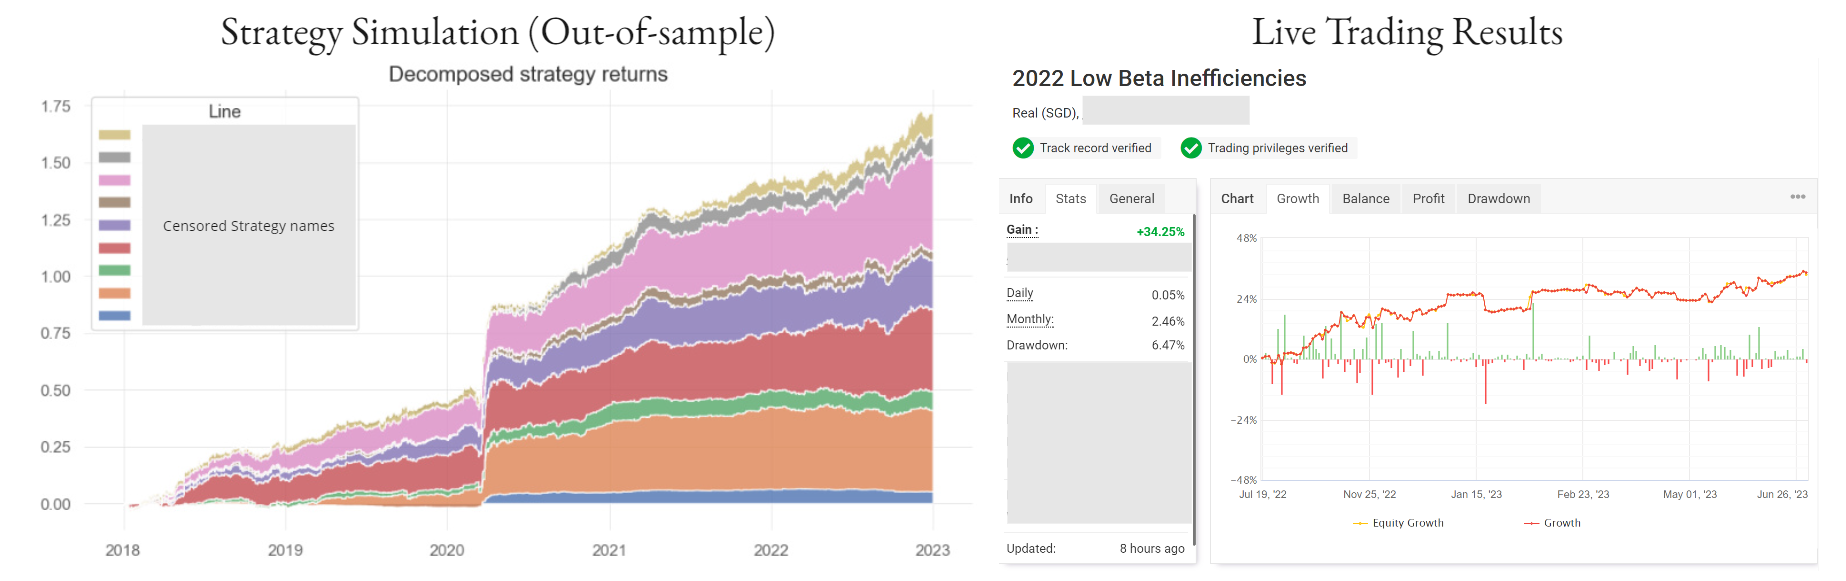
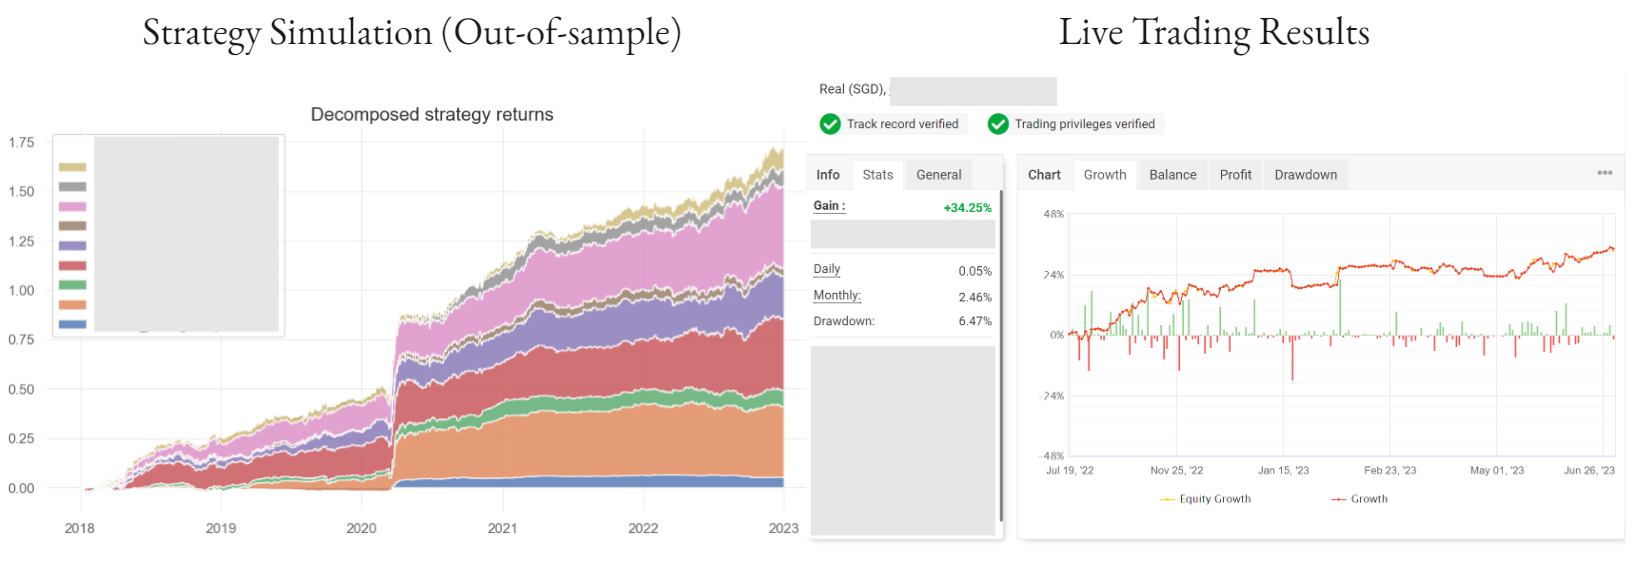
center and minimize stock historian results, center stock historian explanation

diff --git a/index.md b/index.md
@@ -25,9 +25,16 @@ nav_order: 1
 
 <style>
   /* https://illtron.net/2019/03/styling-images-with-markdown/ */
-img[src$="#block"] {
+img[src$="#block45"] {
   display: block;
   margin: 0 auto;
+  max-width: 45%;
+}
+
+img[src$="#block75"] {
+  display: block;
+  margin: 0 auto;
+  max-width: 75%;
 }
 
 img[src$="#avatar"] {
@@ -48,26 +55,36 @@ Hey there, I'm Jeremy.
 I love solving hard problems in AI, NLP and in financial trading.  
 
 **Techstack:**  
-• Languages: Python, C#, R, Lite-C (Zorro), Easylanguage / Powerlanguage, AFL (Amibroker)  
-• ML & AI: Pytorch, Pytorch-lightning, AllenNLP, Spacy, Prodigy, Tensorflow 2  
-• Databases: ElasticSearch, MongoDB, PostgreSQL, SAS  
-• Cloud: Google Cloud, Paperspace, Digital Ocean, Azure  
-• Infrastructure: Docker, Gitlab, Github Actions  
+• Languages: Python, C#, R, Easylanguage / Powerlanguage
+• ML & AI: Pytorch, AllenNLP, Spacy, Prodigy 
+• Databases: Clickhouse, ElasticSearch, MongoDB, PostgreSQL, TimescaleDB, QuestDB 
+• Cloud: Google Cloud, Paperspace, Azure  
+• Infrastructure: Docker, Gitlab, Github Actions, Dagster  
 
-<h2 align="center">Trading</h2>
 
-<img src="img/LiveTradingResults.png" width="100%" align="center"/>  
+---
 
-Trading systems achieved live trading returns of 34% returns over a 12 month period with a profit factor of 1.34 and a shallow drawdown of ~6.5%.  
-Simulations are updated yearly so there is some overlap. For now, I've ceased trading to focus on my current role.
+
+<h2 align="center">Financial AI</h2>
+
+My personal trading systems achieved live returns of 34% returns over a 12 month period with a profit factor of 1.34 and a shallow drawdown of ~6.5%.  
+For now, I've ceased trading to focus on my current role.
+
+<img src="img/LiveTradingResults.png" width="100%" align="center">  
+
+
+---
+
 
 <h2 align="center">NLP in Finance</h2>
 
-<img src="img/stock-historian-results.png" width="60%" align="center"/>  
-
-The potential for Natural Language Processing in finance is massive.  
+The potential for Natural Language Processing (NLP) in finance is massive.  
 My dissertation is on extracting cause-and-effect axioms from historical news that can be used to navigate the future. 
-The model is explained below with an intuitive example. 
+
+![historian-returns](./img/stock-historian-results.png#block45)
+
+The model is explained below with an intuitive example.   
 Certain of how informative such information can be, I look forward to putting aside the time to fully productionize this model one day.  
 
-<img src="img/Stock-Historian-Explanation.png" width="100%" align="center"/>
+![historian-explanation](./img/Stock-Historian-Explanation.png#block75)
+
